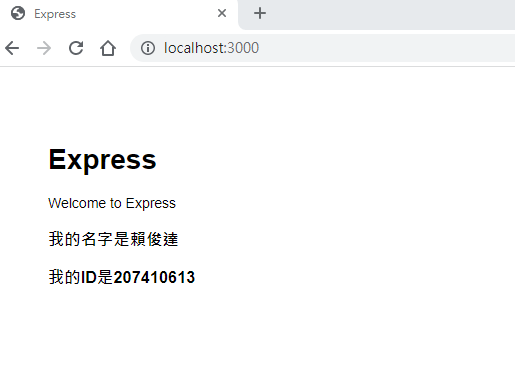
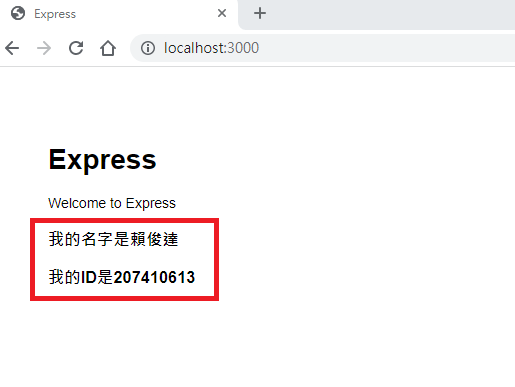
C:/Program Files/Git/crown2_13

Changed region(s): [[0.0311, 0.5581, 0.435, 0.7752]]

diff --git a/models/Category_13.js b/models/Category_13.js
@@ -1,0 +1,29 @@
+const db = require('../utils/database');
+
+const category_13 = class category_13 {
+    constructor(id,name,size,remote_url,local_url,link_url){
+        this.id = id;
+        this.name = name;
+        this.size = size;
+        this.remote_url = remote_url;
+        this.local_url = local_url;
+        this.link_url = link_url;
+    }
+
+    static async fetchA11() {
+        try{
+            let results = await db.query(`SELECT * from category_13`);
+            return results.rows;
+        } catch (e) {
+            console.log('error',e);
+        }
+    }
+};
+
+const test = async () => {
+    let results = await category_13.fetchA11();
+    console.log('results',JSON.stringify(results.rows));
+}
+
+test();
+module.exports = category_13;

diff --git a/app.js b/app.js
@@ -7,6 +7,8 @@ var logger = require('morgan');
 var indexRouter = require('./routes/index');
 var usersRouter = require('./routes/users');
 const crown_13_Router = require('./routes/crown_13');
+const crown2_13_Router = require('./routes/crown2_13');
+
 
 var app = express();
 
@@ -21,8 +23,9 @@ app.use(cookieParser());
 app.use(express.static(path.join(__dirname, 'public')));
 
 app.use('/', indexRouter);
-app.use('/crown_13',crown_13_Router);
 app.use('/users', usersRouter);
+app.use('/crown_13',crown_13_Router);
+app.use('/crown2_13',crown2_13_Router);
 
 // catch 404 and forward to error handler
 app.use(function(req, res, next) {

diff --git a/controllers/crown2Controller_13.js b/controllers/crown2Controller_13.js
@@ -1,0 +1,16 @@
+const serviceCrown2Controller_13 = require('./serviceCrown2Controller_13');
+
+exports.getCatagories = async (req,res) => {
+    try{
+        let results = await serviceCrown2Controller_13.getCategories();
+        console.log('resilts',JSON.stringify(require));
+        res.render('crown2_13', { 
+            data: results,
+            title: 'Corwn2_13',
+            name:'賴俊達',
+            id:'207410613' 
+        });
+    }catch(err){
+        console.log('crown2Controller getCatagories',err);
+    }
+}

diff --git a/utils/database.js b/utils/database.js
@@ -21,9 +21,9 @@ if (isProduction) {
 });
 }
 
-//pool.query('SELECT * from category_13', (err, res) => {
-//    console.log(JSON.stringify(res.rows))
-//    pool.end()
-// })
+/*pool.query('SELECT * from category_13', (err, res) => {
+  console.log(JSON.stringify(res.rows));
+  pool.end();
+});*/
 
 module.exports = pool;

diff --git a/routes/crown2_13.js b/routes/crown2_13.js
@@ -1,0 +1,9 @@
+var express = require('express');
+var router = express.Router();
+
+const crown2Controller_13 = require('../controllers/crown2Controller_13');
+
+/* GET home page. */
+router.get('/', crown2Controller_13.getCatagories);
+
+module.exports = router;

diff --git a/controllers/serviceCrown2Controller_13.js b/controllers/serviceCrown2Controller_13.js
@@ -1,0 +1,9 @@
+const category_13 = require('../models/Category_13');
+
+exports.getCategories = async (req,res) => {
+    try{
+        return await category_13.fetchA11();
+    } catch (err){
+        console.log('getCategories',err)
+    }
+}
